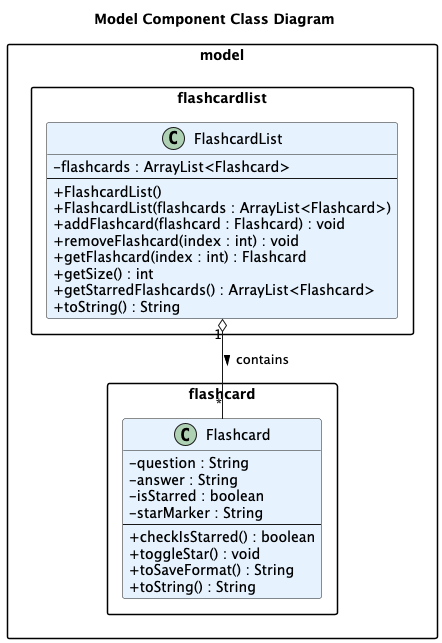
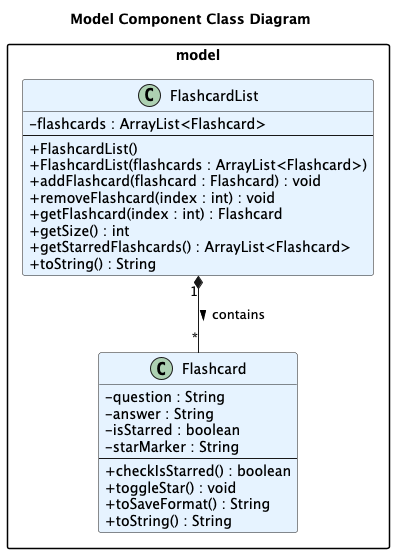
Final version of DG diagrams

diff --git a/src/main/java/quizmos/command/RemoveFlashcardCommand.java b/src/main/java/quizmos/command/RemoveFlashcardCommand.java
@@ -22,7 +22,7 @@ public class RemoveFlashcardCommand extends Command {
         } catch (QuizMosInputException e) {
             throw e;
         } catch (Exception e) {
-            throw new QuizMosInputException(Messages.invalidCommandMessage);
+            throw new QuizMosInputException(FlashcardMessages.invalidIndexMessage);
         }
     }
 

diff --git a/docs/DeveloperGuide.md b/docs/DeveloperGuide.md
@@ -82,8 +82,8 @@ The sections below give more details of each component
 - Provides methods to add, delete, and search flashcards.
 
 **Classes:**
-- Flashcard
-- FlashcardList
+- **`Flashcard`** — Represents a single flashcard containing a question and answer pair, with support for marking it as starred.
+- **`FlashcardList`** — Manages a collection of flashcards, providing methods to add, remove, retrieve, and list flashcards, as well as filter starred ones.
 
 ![Model Component Class Diagram](images/ModelComponent_ClassDiagram.png "Model Component Class Diagram")
 
@@ -94,7 +94,7 @@ The sections below give more details of each component
 - Coordinates between UI, Logic, and Storage components.
 
 **Class:**
-- QuizMos
+- **`QuizMos`** — The main entry point of the application. Handles setup, command parsing, and orchestrates the overall program flow.
 
 ![Main Component Class Diagram](images/MainComponent_ClassDiagram.png "Main Component Class Diagram")
 
@@ -112,18 +112,23 @@ The sections below give more details of each component
 - FlashcardList
 
 ![Storage Component Class Diagram](images/StorageComponent_ClassDiagram.png "Storage Component Class Diagram")
+
 ### Commons Component
 
 **Responsibilities:**
 - Contains shared classes used by multiple components (e.g., Messages, Exceptions).
 
 **Class:**
-- Exception
-- Messages
+- **`QuizMosException`** — The base exception class for all application-specific errors.
+- **`QuizMosFileException`** — Thrown when file read/write operations fail.
+- **`QuizMosInputException`** — Thrown when user input is invalid or cannot be processed.
+- **`QuizMosLogicException`** — Thrown when logical errors occur during command execution.
+- **`Messages`** — Stores general UI and command-related messages.
+- **`FlashcardMessages`** — Provides user-facing messages for flashcard-related operations.
+- **`FlashcardListMessages`** — Contains messages related to the flashcard list state.
+- **`ReviewMessages`** — Provides messages and prompts used during the flashcard review sessions.
 
 ![Commons Component Class Diagram](images/CommonsComponent_ClassDiagram.png "Commons Component Class Diagram")
-
-
 
 ---
 
@@ -244,12 +249,14 @@ This section describes some noteworthy details on how certain features are imple
 - The application must prohibit starting MCQ review if the `FlashcardList` contains fewer than 4 flashcards.
 - All review mode prompts must perform immediate input validation and provide clear, specific error messages for incorrect choices.
 - The review session must guarantee a graceful exit upon receiving the `quit` command, regardless of the user's progress in the loop.
+
 ---
 
 ## Glossary
 - **FLIP mode:** A basic mode where the user views the question and manually chooses whether or not to reveal the answer.
 - **MCQ mode (Multi-choice questions):** A mode that presents the user with four answer choices (including the correct one), forcing them to select one number. Requires at least four flashcards in the list.
 - **TF mode:** A mode where a flashcard's question is paired with a randomly selected answer (which may or may not be correct). The user must decide if the resulting statement is true or false.
+
 ---
 
 ## Instructions for Manual Testing
